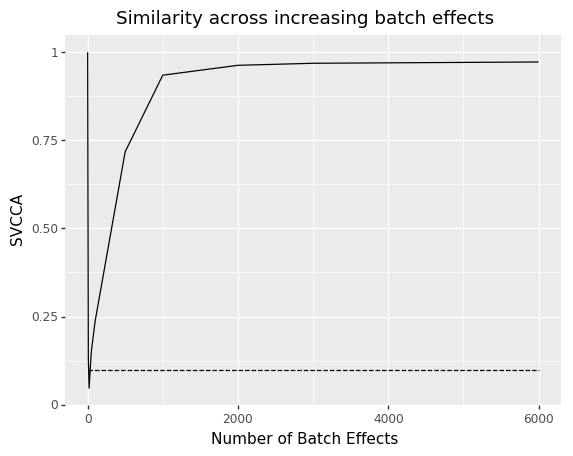
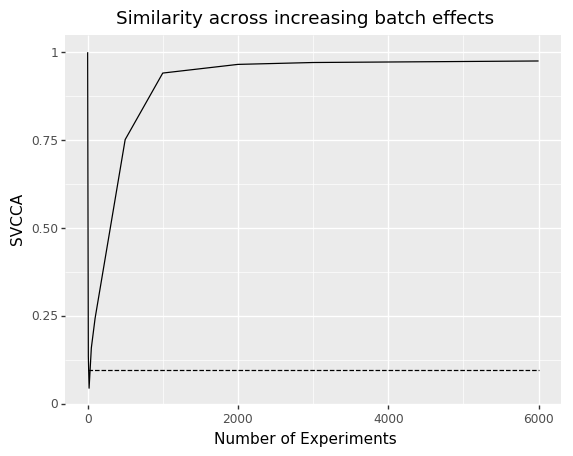
update readme

diff --git a/README.md b/README.md
@@ -12,7 +12,10 @@ We sought to determine the extent to which underlying biological signal can be e
 **Approach:**
 1. Train a multi-layer Variational Autoencoder (VAE) using [compendium](https://msystems.asm.org/content/1/1/e00025-15) of *P. aeruginosa* gene expression experiments from different labs measuring different biological processes
 2. Simulated gene expression from a compendium using the trained VAE
-3. Added variation to subsets of simulated samples in order to represent different numbers of experiments 
+   Specifically, data is generated by sampling from the distribution per latent space feature.
+3. Added variation to subsets of simulated samples in order to represent different numbers of experiments. 
+   Specifically, data is generated by sampling from the latent space using the 
+   Data is partitioned into almost equal sized chunks (i.e. all but one parition is of size N % i and one partition of the size of the remainder).  The gene expression for *all genes* is shifted by a random value, r, where $r\sim N(0, 0.2)$
 4. Compared gene expression patterns from a compendium containing a single simulated experiment and the pattern from a compendium with multiple experiments using a canonical correlation analysis
 5. Correct for technical variation added using existing methods like [removeBatchEffect](https://rdrr.io/bioc/limma/man/removeBatchEffect.html) and re-calculate similarity in reference to single simulated experiment
 
